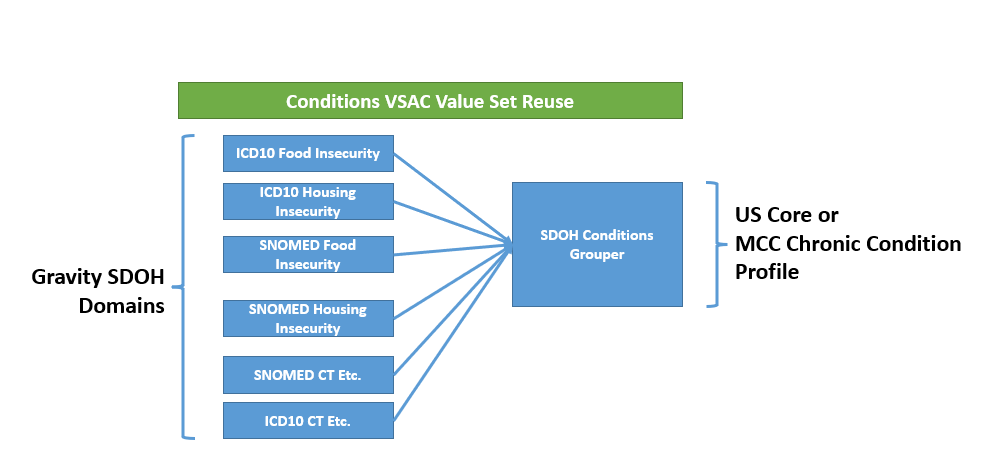
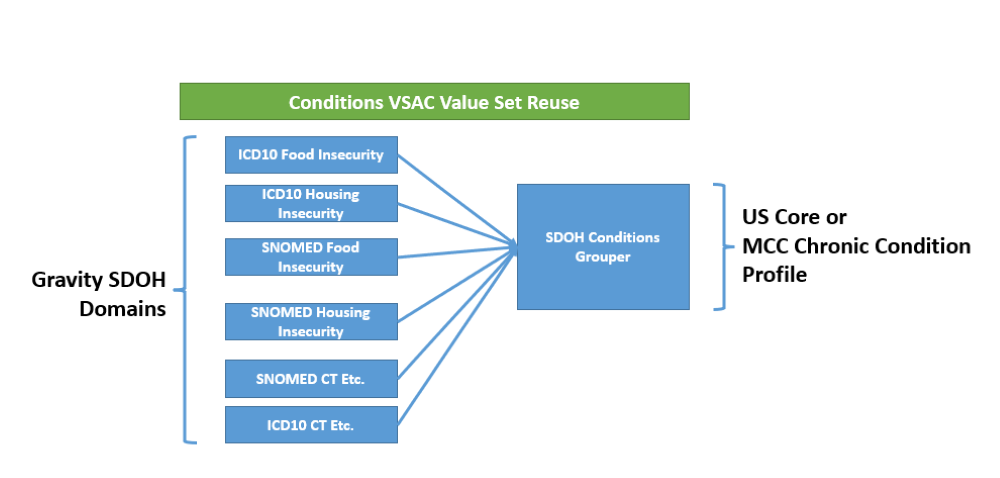
Update image sizes and some edits on SDOH page

diff --git a/input/pagecontent/mcc_care_plan_social_determinants_of_health_sdoh_guidance.md b/input/pagecontent/mcc_care_plan_social_determinants_of_health_sdoh_guidance.md
@@ -2,8 +2,9 @@
 
 The United States Core Data for Interoperability (USCDI) V2 that the Office of the National Coordinator (ONC) published in July of 2021 added data elements to cover SDOH items. SDOH data relate to conditions in which people live, learn, work, and play and their effects on health risks and outcomes. Interdisciplinary Care Planning and Care Coordination have always understood the importance of, and taken into consideration SDOH issues because of their effects on health risks and outcomes. There has been considerable work done in the interoperability space for representing SDOH data through the [Gravity Project](https://thegravityproject.net/) with a growing and evolving body of work including defining use cases, suggesting/defining workflows and developing value sets in order to encourage and facilitate the capture of data in a structured and standardized way to get the data flowing into EHRs and other systems. The [HL7 US Core Implementation Guide](http://www.hl7.org/fhir/us/core/index.html) is the method by which USCDI Data Element are standardized for exchanging the data using FHIR.
 
-The MCC Care Plan and the US Core Implementation Guide, represent broader use cases than Gravity, and in particular the MCC eCare IG goal is to define the retrieval and aggregation of all types of chronic care data in one place. As such, the US Core use case and MCC use cases are very similar. Given that the MCC IG reuses and contrains US Core Profiles for use in a FHIR Care Plan, by default the IG inherits the [US Core SDOH Approach](http://www.hl7.org/fhir/us/core/sdoh.html#social-determinants-of-health-sdoh). Please refer to that US Core Guidance page for implementation details. 
-On this page we will repeat the highlights of the US Core Approach reused in the MCC eCare IG appropriate for analysts and eCare Plan clinical and domain expert stakeholders and refer implmenters to the US Core Guidance page.
+The MCC Care Plan and the US Core Implementation Guide, represent broader use cases than Gravity, and in particular the MCC eCare IG goal is to define the retrieval and aggregation of all types of chronic care data in one place. As such, the US Core use case and MCC use cases are very similar. Given that the MCC IG reuses and constrains US Core Profiles for use in a FHIR Care Plan, by default, the IG inherits the [US Core SDOH Approach](http://www.hl7.org/fhir/us/core/sdoh.html#social-determinants-of-health-sdoh). Please refer to the US Core Guidance page for implementation details. 
+
+Within this IG, on this page we will repeat the highlights of the US Core Approach reused in the MCC eCare IG with a care planning view, focusing on what is appropriate for analysts and eCare Plan clinical and domain expert stakeholders, and refer implementers to the US Core Guidance page for technical implementation details.
 
 #### The MCC eCare Plan and SDOH Activities
 The differences between US Core Profiles and their corresponding MCC profiles are the constraining or emphasis on FHIR elements or extensions used to represent linkages between profiles to represent the care planning process of assessing to identify conditions or health concerns and the activities, goals and outcomes associated with given condition or concerns.

diff --git a/input/pagecontent/index.md b/input/pagecontent/index.md
@@ -47,7 +47,7 @@ The HL7-based activities of the MCC eCare Plan Project include:
  - Through an non-HL7 project, the initiative will develop and test an open-source clinician facing SMART-on-FHIR eCare plan application for managing persons with MCC.
  - Develop, test, and ballot an HL7® Fast Health Interoperability Resources (FHIR®) Implementation Guide based on the defined use cases and MCC data elements.
  
-Additional non-HL7 related activities of the MCC eCare Plan project will be facilitated through the [AHRQ eCare Plan Project Confluence](https://ecareplan.ahrq.gov/collaborate/display/EC/eCare+Plan+Home).
+Additional non-HL7 related activities of the MCC eCare Plan project will be facilitated through the [AHRQ eCare Plan Project Confluence](https://ecareplan.ahrq.gov/collaborate).
 
 ####  Project Timelines
 To be developed.
@@ -60,13 +60,13 @@ The guidance section provides general implementation guidance and best practices
 
 ####  Relationship to US Core
 
-This Implementation Guide strives to reuse US Core profiles either through direct use or by constraining select profiles for representation within a FHIR Care Plan profile. Where US Core does not have a profile or function that is needed for the use cases or data elements, the IG constrains or directly reuses other resources, or profiles defined in other FHIR IGs. 
+This Implementation Guide reuses US Core profiles either through direct use or by constraining select profiles for representation within a FHIR Care Plan profile. Where US Core does not have a profile or function that is needed for the use cases or data elements, the IG constrains or directly reuses other resources, or profiles defined in other FHIR IGs. 
 This guide will reuse the US Core Care Plan. However, the required US Core CarePlan.text and the required Care.Plan.category:AssessPlan may be limiting factors for this context of use: aggregation of multiple chronic condition care plans and the ability to query for structured data within a structured Care Plan. As such, we recommend adding additional Care Plan categories if deemed more informational to reflect multiple chronic condition care coordination and plans and to hard code “Multiple Chronic Condition Care Coordination Plan” at CarePlan.text
 
 
 #####  General US Core IG Conformance
 
-This guide will adhere to or build on US conformance requirements, most of its [General Guidance](https://www.hl7.org/fhir/us/core/general-guidance.html) and its [Capability Statements](https://www.hl7.org/fhir/us/core/capstatements.html) where applicable. 
+This guide will adhere to or build on US conformance requirements, most of its [General Guidance](https://www.hl7.org/fhir/us/core/general-guidance.html), and its [Capability Statements](https://www.hl7.org/fhir/us/core/capstatements.html) where applicable. 
 
 #####  Provenance
 
